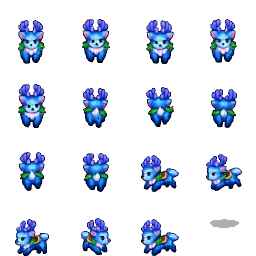
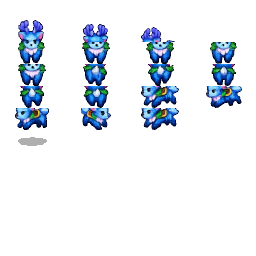
skin thu cuoi: tach bo phan nhu Rong Bang, dau giu nguyen giua cac frame
Nguoi choi gui atlas Rong Bang va yeu cau lam giong. Doc ra thi no khong luu ca
con moi frame: nhin ngang luu DAU (anh24, 28x38) mot lan roi dung o CA 7 frame,
chi thay THAN (5 anh); nhin truoc anh4, nhin sau anh14 cung vay; cong bong do
anh0 dung o ca 21 frame. Do bang tools PhanTich: tiet kiem 54.5% dien tich.

Quan trong hon tiet kiem cho: dau con rong giu nguyen TUNG DIEM suot 7 frame nen
khi di chi co chan dong. Do lai bang sprite AI cua minh thi nua tren doi 68%-87%,
y het nua duoi — tuc ve lai ca con moi frame, nen con thu rung toan than, khong
ra dang buoc. Day chinh la cho "hoat anh khong giong linh thu khac".

Nay cat khung ao 64x64 tai dong CUT = 42: nua tren lay tu frame 0 roi dung cho ca
7 frame cua huong, nua duoi doi theo frame. Moi frame thanh 3 phan: bong do +
nua tren dung chung + nua duoi rieng. Do lai: tiet kiem 74%.

Nhip nhun 1 diem so le van giu, ap cho CA HAI nua cung luc nen duong cat khong
ho — Rong Bang lam dung the (dy dau -48/-47 luan phien).

Bo cuc van co dinh nen du lieu frame giong nhau tung byte giua ca 5 skin:
  375763be9de9bfff224abcda4fc0bc56

Them tools/tao_skin_thu.sh giu lai tham so cua tung con (do bang tay tren bang
sprite goc) va tu kiem md5, dung ngay neu du lieu lech nhau.

Lan nay du lieu CO doi (421 -> 583 byte, them phan nua tren) nen phai tat han app
mot lan. Sau do bo cuc dong bang lai.

Khong sua file nao trong src/ nen jar giu nguyen.

diff --git a/tools/TaoEffThuCuoi.java b/tools/TaoEffThuCuoi.java
@@ -71,14 +71,33 @@ public class TaoEffThuCuoi {
     private static final int SO_GOC = 5;
     /** Toa do anh con luu bang byte khong dau nen atlas toi da 256x256. */
     private static final int ATLAS = 256;
-    /**
-     * Canh mot o trong luoi co dinh, 4 cot x 4 dong = 256x256: 15 o cho than con thu,
-     * o thu 16 cho bong do.
-     */
-    private static final int O = 64;
-    private static final int SO_COT = ATLAS / O;
-    /** Chi so o chua bong do (o cuoi cung cua luoi). */
-    private static final int O_BONG = 15;
+    // ---- Bo cuc atlas: CO DINH, khong duoc doi neu khong muon moi nguoi tat app ----
+    /** Khung ao chua con thu: moi frame duoc dung vao khung nay truoc khi cat. */
+    private static final int WB = 64, HB = 64;
+    /** Duong cat khung ao thanh nua tren (dung chung) va nua duoi (rieng tung frame). */
+    private static final int CUT = 42;
+    /** Chieu cao o bong do. */
+    private static final int CAO_BONG = 24;
+    /** 3 o tinh + 15 o dong + 1 o bong. */
+    private static final int SO_ANH_CON = 3 + 3 * 5 + 1;
+    /** Chi so anh con cua bong do. */
+    private static final int ID_BONG = SO_ANH_CON - 1;
+
+    /** O chua nua tren dung chung cua mot huong: ba o xep ngang o dong dau. */
+    private static int[] oTinh(final int nhom) {
+        return new int[]{nhom * WB, 0};
+    }
+
+    /** O chua nua duoi cua mot frame: 4 o moi dong, xep ngay duoi ba o tinh. */
+    private static int[] oDong(final int nhom, final int f) {
+        final int j = nhom * 5 + f;
+        return new int[]{(j % 4) * WB, CUT + (j / 4) * (HB - CUT)};
+    }
+
+    /** O chua bong do: dat duoi cung. */
+    private static int[] oBong() {
+        return new int[]{0, CUT + 4 * (HB - CUT)};
+    }
     /**
      * So diem con thu tho xuong duoi toa do nhan vat: xuong, len, ngang.
      *
@@ -229,14 +248,14 @@ public class TaoEffThuCuoi {
                     // luu san phai nhin sang trai.
                     if (lat && nhom == 2) nho = latNgang(nho);
                     if (damVien > 0) veVien(nho, damVien);
-                    if (nho.getWidth() > O || nho.getHeight() > O) vuot++;
+                    if (nho.getWidth() > WB || nho.getHeight() > HB) vuot++;
                     anh[nhom * SO_GOC + f] = nho;
                 }
             }
             if (vuot == 0) break;
             tiLe *= 0.96;
             if (tiLe < 0.02) {
-                System.out.println("Khong nhet noi vao o " + O + "x" + O);
+                System.out.println("Khong nhet noi vao khung " + WB + "x" + HB);
                 return;
             }
         }
@@ -263,96 +282,93 @@ public class TaoEffThuCuoi {
         // moi khong khac gi nhau, tang dem do het gay hai vinh vien; con tang anh thi may
         // chu tu day xuong (DataGame.taoGoiAnhDynamicEffect).
         //
-        // Gia phai tra: con thu bi gioi han trong 64x64, va client blit tron o nen phan
-        // trong suot cung duoc ve — khong dang ke.
-        // Xem tung huong co nhip nhun san khong. PHAI do sau khi biet ti le: chenh lech
-        // do o anh goc con phai nhan voi ti le ~0.33 moi ra so diem that, nen 2 diem goc
-        // chi con 0.66 diem — chua thanh nhip.
-        for (int nhom = 0; nhom < 3; nhom++) {
-            int thap = Integer.MAX_VALUE, cao = -1;
-            for (int f = 0; f < SO_GOC; f++) {
-                if (khung[nhom][f] == null) continue;
-                final int v = (int) Math.round((mocY[nhom] - khung[nhom][f][3]) * tiLe);
-                thap = Math.min(thap, v);
-                cao = Math.max(cao, v);
-            }
-            nhun[nhom] = cao - thap < 1;
-            System.out.println("  huong " + nhom + (nhun[nhom] ? ": tu them nhip nhun"
-                    : ": co nhip nhun san " + (cao - thap) + " diem"));
-        }
-
+        // ================= TACH BO PHAN NHU RONG BANG =================
+        // Rong Bang khong luu ca con moi frame. Nhin ngang no luu DAU (anh 24, 28x38) mot
+        // lan roi dung o CA 7 frame, chi thay THAN (5 anh). Nhin truoc cung vay (anh 4),
+        // nhin sau cung vay (anh 14). Cong bong do (anh 0) dung o ca 21 frame. Do duoc:
+        // cach nay tiet kiem 54.5% dien tich atlas cua no.
+        //
+        // Quan trong hon tiet kiem cho: dau con rong GIU NGUYEN TUNG DIEM suot 7 frame,
+        // nen khi di chi co chan dong. Bang sprite AI thi ve lai ca con moi frame — do
+        // duoc nua tren doi 68%-87%, y het nua duoi — nen con thu rung toan than, nhin
+        // khong ra dang buoc. Vi vay o day cung tach: nua tren lay tu MOT frame roi dung
+        // cho ca 7 frame, chi nua duoi doi theo frame.
+        //
+        // Nhip nhun 1 diem so le van giu duoc ma khong bi ho duong cat, vi dy cua CA HAI
+        // phan cung xe dich mot luc (Rong Bang lam dung the: dy dau -48/-47 luan phien).
+        // Luat nhun la hang so theo chi so frame, khong phu thuoc anh, nen file du lieu
+        // van giong nhau tung byte giua cac skin va cac lan lam lai.
         final BufferedImage atlas = new BufferedImage(ATLAS, ATLAS, BufferedImage.TYPE_INT_ARGB);
         final Graphics2D g = atlas.createGraphics();
-        for (int i = 0; i < anh.length; i++) {
-            if (anh[i] == null) continue;
-            final int nhom = i / SO_GOC, f = i % SO_GOC;
-            final int ox = (i % SO_COT) * O, oy = (i / SO_COT) * O;
-            // Can giua o theo be ngang. Theo chieu doc: vach dat cua hang nam dung o day
-            // o, con tung frame giu nguyen do nhun len xuong tu nhien cua no.
-            int caoTrenVach = (int) Math.round((mocY[nhom] - khung[nhom][f][3]) * tiLe);
-            // Bao dam co nhip nhun: linh thu that nhun than 1 diem so le tung frame (heo
-            // bang dy = -35, -34, -35, -34, -35). Bang sprite AI nhieu khi ve cac frame
-            // dung y mot do cao, luc do con thu truot ngang nhu dan tren giay nen phai
-            // tu them nhip. Chi them khi ban than hang khong co nhip san.
-            if (nhun[nhom] && f % 2 == 1) {
-                caoTrenVach++;
+        for (int nhom = 0; nhom < 3; nhom++) {
+            for (int f = 0; f < SO_GOC; f++) {
+                final BufferedImage a = anh[nhom * SO_GOC + f];
+                if (a == null) continue;
+                // Dung tat ca frame vao mot khung ao HB x WB, can giua va sat day khung.
+                // Bo qua do nhun tu nhien cua anh goc: nhip nhun nay chuyen sang dy de
+                // hai nua cung xe dich, khong thi duong cat bi ho.
+                final BufferedImage khungAo = new BufferedImage(WB, HB, BufferedImage.TYPE_INT_ARGB);
+                final Graphics2D gk = khungAo.createGraphics();
+                gk.drawImage(a, (WB - a.getWidth()) / 2, HB - a.getHeight(), null);
+                gk.dispose();
+                if (f == 0) {
+                    // Nua TREN cua frame 0 -> o tinh cua huong, dung cho ca 7 frame.
+                    final int[] o = oTinh(nhom);
+                    g.drawImage(khungAo.getSubimage(0, 0, WB, CUT), o[0], o[1], null);
+                }
+                final int[] o = oDong(nhom, f);
+                g.drawImage(khungAo.getSubimage(0, CUT, WB, HB - CUT), o[0], o[1], null);
             }
-            g.drawImage(anh[i], ox + (O - anh[i].getWidth()) / 2,
-                    oy + O - caoTrenVach - anh[i].getHeight(), null);
         }
-        // Bong do o o cuoi: linh thu that con nao cung co, la mot phan RIENG dat co dinh
-        // ngay toa do nhan vat va giu nguyen suot 21 frame (Rong Bang img0 27x14, heo bang
-        // img0 dy=-5). Thieu bong thi con thu nhin nhu dan len chu khong dung tren dat.
+        // Bong do: linh thu that con nao cung co, la mot phan RIENG dat co dinh ngay toa do
+        // nhan vat va giu nguyen suot 21 frame (Rong Bang anh0 27x14 dung 21 lan).
         final int rongBong = Math.max(8, (int) Math.round(rongThuc * 0.8));
         final int caoBong = Math.max(4, (int) Math.round(rongBong * 0.30));
-        final int bx = (O_BONG % SO_COT) * O, by = (O_BONG / SO_COT) * O;
+        final int[] ob = oBong();
         g.setPaint(new java.awt.Color(0, 0, 0, 80));
-        g.fillOval(bx + (O - rongBong) / 2, by + (O - caoBong) / 2, rongBong, caoBong);
+        g.fillOval(ob[0] + (WB - rongBong) / 2, ob[1] + (CAO_BONG - caoBong) / 2,
+                rongBong, caoBong);
         g.dispose();
         ImageIO.write(atlas, "png", new File("map/d_effect/" + id + ".png"));
 
         final ByteArrayOutputStream bos = new ByteArrayOutputStream();
         final DataOutputStream dos = new DataOutputStream(bos);
-        dos.writeByte(anh.length + 1);              // 15 o than + 1 o bong
-        for (int i = 0; i <= anh.length; i++) {
-            dos.writeByte(i);
-            dos.writeByte((i % SO_COT) * O);
-            dos.writeByte((i / SO_COT) * O);
-            dos.writeByte(O);
-            dos.writeByte(O);
+        dos.writeByte(SO_ANH_CON);
+        for (int nhom = 0; nhom < 3; nhom++) {          // 0..2  o tinh (nua tren)
+            final int[] o = oTinh(nhom);
+            ghiAnhCon(dos, nhom, o[0], o[1], WB, CUT);
         }
+        for (int nhom = 0; nhom < 3; nhom++) {          // 3..17 o dong (nua duoi)
+            for (int f = 0; f < SO_GOC; f++) {
+                final int[] o = oDong(nhom, f);
+                ghiAnhCon(dos, 3 + nhom * SO_GOC + f, o[0], o[1], WB, HB - CUT);
+            }
+        }
+        final int[] ob2 = oBong();                      // 18    o bong
+        ghiAnhCon(dos, ID_BONG, ob2[0], ob2[1], WB, CAO_BONG);
+
         dos.writeShort(3 * SO_SLOT);
         for (int nhom = 0; nhom < 3; nhom++) {
             for (int slot = 0; slot < SO_SLOT; slot++) {
                 final int f = slot < SO_GOC ? slot : slot - SO_GOC;
-                final int idAnh = nhom * SO_GOC + f;
-                if (khung[nhom][f] == null || anh[idAnh] == null) {
+                if (khung[nhom][f] == null || anh[nhom * SO_GOC + f] == null) {
                     dos.writeByte(0);
                     continue;
                 }
-                dos.writeByte(2);
-                // Phan 1: bong do. Dat truoc than de nam DUOI than, va dung mot toa do
-                // cho ca 21 frame nen bong khong xe dich theo nhip nhun cua than.
-                // O bong duoc ve hinh bau duc dung giua o nen -O/2 dua tam bong ve
-                // dung toa do nhan vat.
-                dos.writeShort(-O / 2);
-                dos.writeShort(-O / 2);
-                dos.writeByte(O_BONG);
-                dos.writeByte(0);
-                dos.writeByte(0);
-                // Phan 2: than con thu.
-                // dx = -O/2: can giua o. Dung dung nua o thi client lat anh cho huong
-                // phai bang num = -(dx + w) cung ra -O/2, hai ben trung khop tuyet doi.
-                dos.writeShort(-O / 2);
-                // Day o nam duoi toa do nhan vat THO_XUONG diem. Con thu phai tho xuong
-                // duoi chan nhan vat, khong duoc dung ngay tai do: client nang nhan vat
-                // len khi cuoi (dy_horse_tool, Rong Bang -22 khi nhin truoc) nen duoi chan
-                // phai con than va chan con thu, khong thi nhin nhu nguoi dung canh con
-                // thu chu khong phai ngoi tren.
-                dos.writeShort(-O + THO_XUONG[nhom]);
-                dos.writeByte(idAnh);
-                dos.writeByte(0);   // flip: client tu lat khi di sang phai
-                dos.writeByte(0);   // onTop = 0 -> nam trong danh sach ve sau cung
+                // Nhip nhun: nang ca con len 1 diem o frame le, y nhu Rong Bang.
+                final int nhunF = slot % 2 == 1 ? 1 : 0;
+                // Day khung ao nam duoi toa do nhan vat THO_XUONG diem. Con thu phai tho
+                // xuong duoi chan nhan vat, khong duoc dung ngay tai do: client nang nhan
+                // vat len khi cuoi (dy_horse_tool, Rong Bang -22 khi nhin truoc) nen duoi
+                // chan phai con than va chan con thu.
+                final int dayKhung = THO_XUONG[nhom] - nhunF;
+                dos.writeByte(3);
+                // Phan 1: bong do — ve truoc nen nam duoi, va KHONG nhun theo than.
+                ghiPhan(dos, -WB / 2, -CAO_BONG / 2, ID_BONG);
+                // Phan 2: nua tren (dau, than tren) — chung cho ca 7 frame cua huong.
+                ghiPhan(dos, -WB / 2, dayKhung - HB, nhom);
+                // Phan 3: nua duoi (than duoi, chan) — rieng tung frame.
+                ghiPhan(dos, -WB / 2, dayKhung - HB + CUT, 3 + nhom * SO_GOC + f);
             }
         }
         // Bo buoc sequence: bat chuoc Rong Bang, tro vao 3 frame chay cua huong ngang.
@@ -368,11 +384,31 @@ public class TaoEffThuCuoi {
         try (FileOutputStream fo = new FileOutputStream(new File("map/d_effect/" + id))) {
             fo.write(bos.toByteArray());
         }
-        System.out.println("Xong: d_effect/" + id + ".png (" + ATLAS + "x" + ATLAS + ", luoi "
-                + SO_COT + "x" + SO_COT + " o " + O + ", con thu to nhat " + rongThuc + "x"
-                + caoThuc + ") + d_effect/" + id + " (" + bos.size()
-                + " byte, 21 frame), ti le " + String.format("%.3f", tiLe)
-                + " -> id gui client = " + (8700 + id));
+        System.out.println("Xong: d_effect/" + id + ".png (" + ATLAS + "x" + ATLAS + ", "
+                + SO_ANH_CON + " anh con: 3 nua tren dung chung + 15 nua duoi + 1 bong"
+                + ", con thu to nhat " + rongThuc + "x" + caoThuc + ") + d_effect/" + id
+                + " (" + bos.size() + " byte, 21 frame), ti le "
+                + String.format("%.3f", tiLe) + " -> id gui client = " + (8700 + id));
+    }
+
+    /** Ghi mo ta mot anh con: 5 byte khong dau id, x, y, rong, cao. */
+    private static void ghiAnhCon(final DataOutputStream dos, final int id, final int x,
+                                   final int y, final int w, final int h) throws Exception {
+        dos.writeByte(id);
+        dos.writeByte(x);
+        dos.writeByte(y);
+        dos.writeByte(w);
+        dos.writeByte(h);
+    }
+
+    /** Ghi mot phan cua frame: short dx, short dy, byte idAnh, byte flip, byte onTop. */
+    private static void ghiPhan(final DataOutputStream dos, final int dx, final int dy,
+                                 final int idAnh) throws Exception {
+        dos.writeShort(dx);
+        dos.writeShort(dy);
+        dos.writeByte(idAnh);
+        dos.writeByte(0);   // flip: client tu lat khi di sang phai
+        dos.writeByte(0);   // onTop = 0 -> nam trong danh sach ve sau cung
     }
 
     /** Doc tham so dang "0-2" hoac "3" thanh khoang o. */
